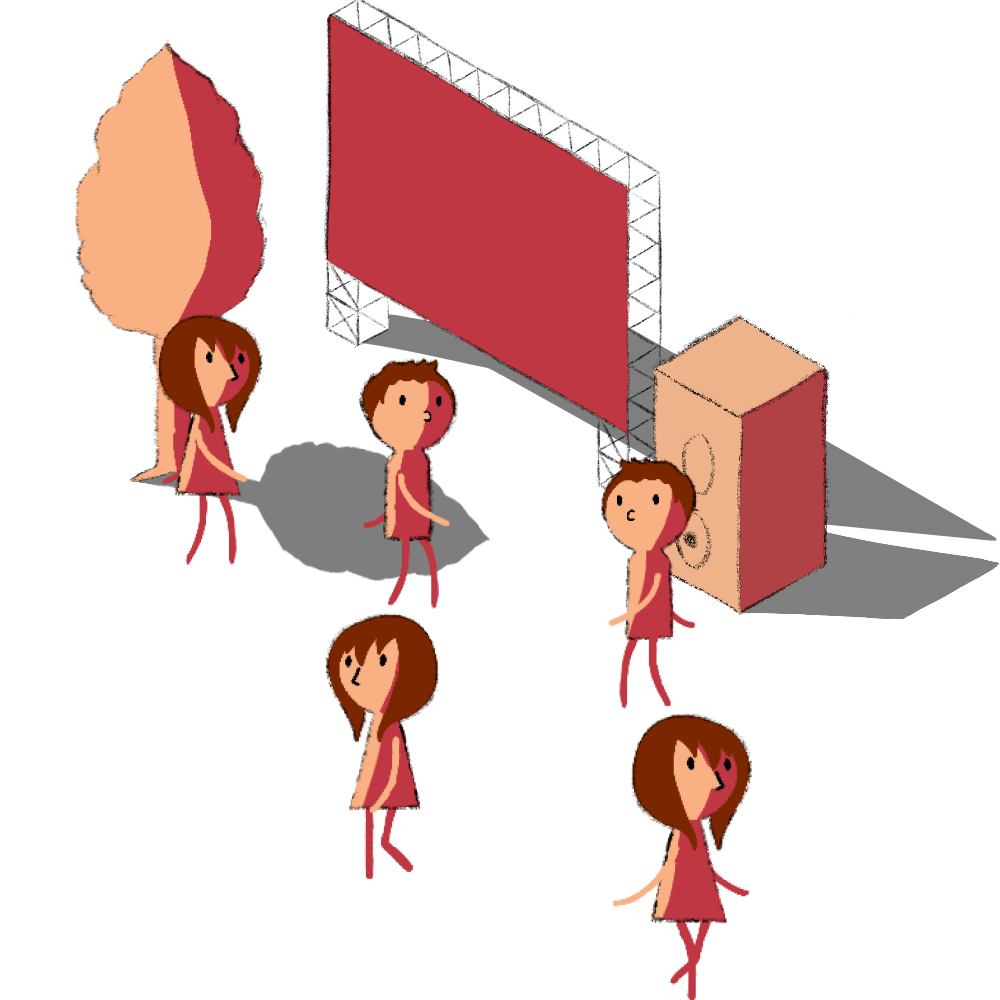
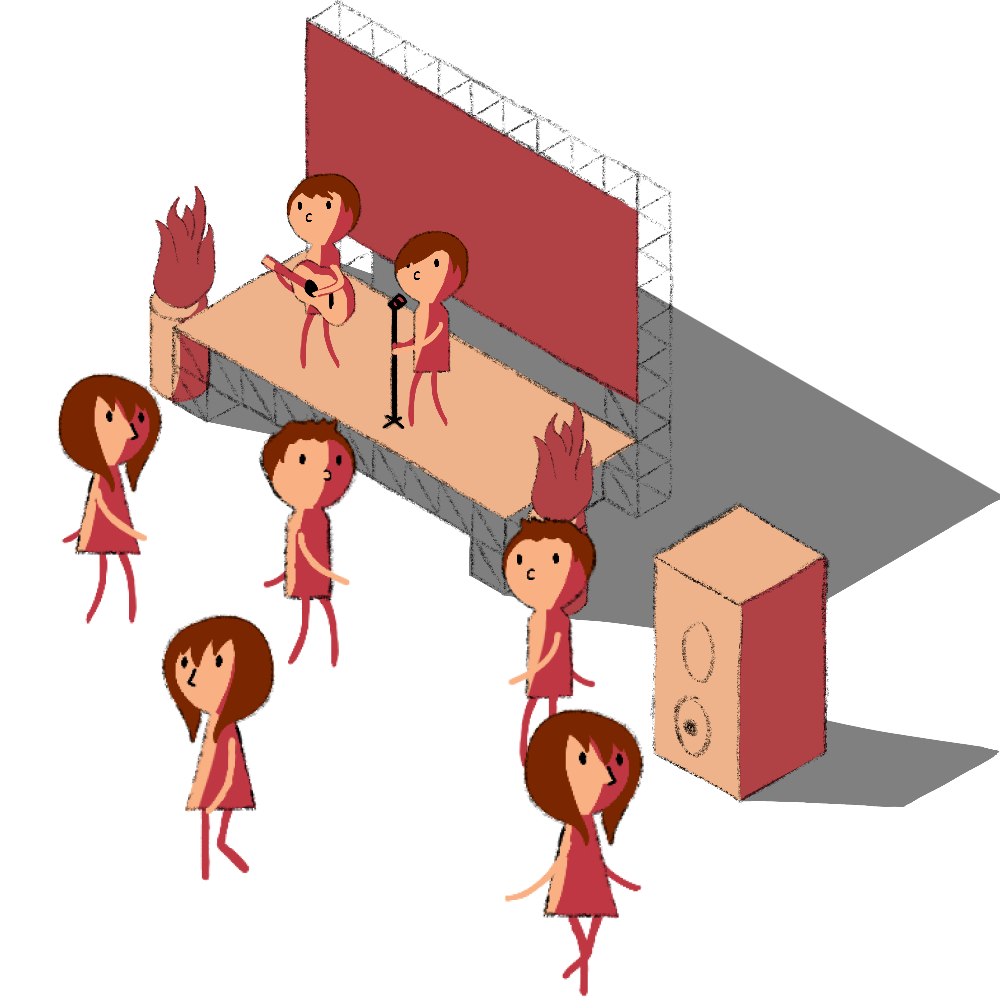
:sparkles: added illustration

diff --git a/src/views/Signup.vue b/src/views/Signup.vue
@@ -54,7 +54,7 @@ In Festivaly, vibe on your favorite artist stages within a cute isometric world!
 
         <div class="relative grid grid-between">
           <div class="section_jumbotron_images grid">
-            <img class="section_jumbotron_images--single" src="images/home/home_03.png" alt="Festivaly illustration" />
+            <img class="section_jumbotron_images--single" src="images/home/home_04.png" alt="Festivaly illustration" />
           </div>
           <Section
             data-scroll
